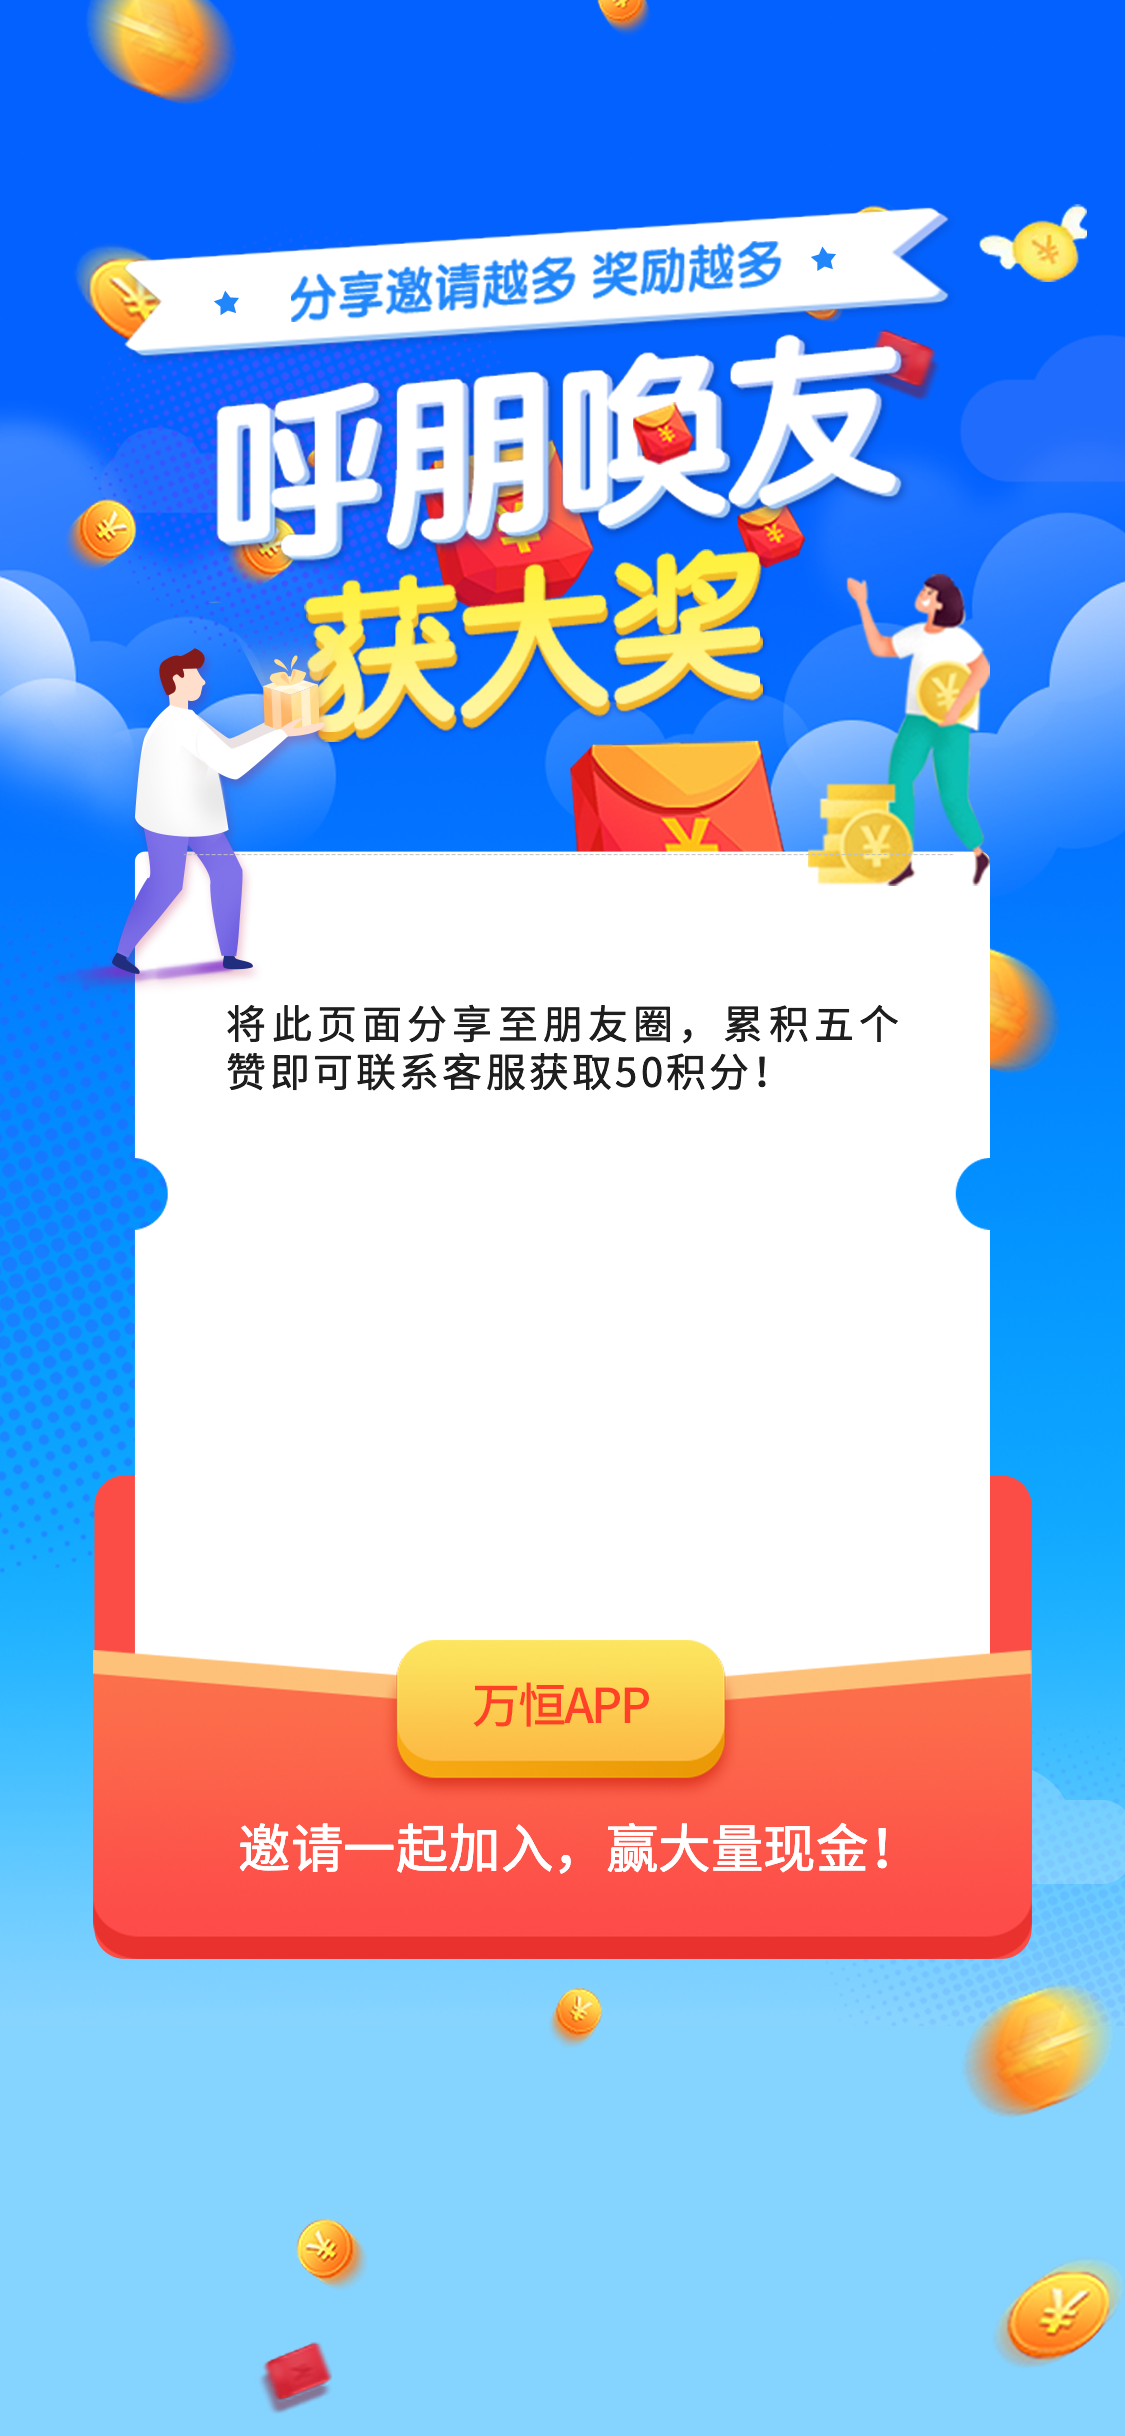
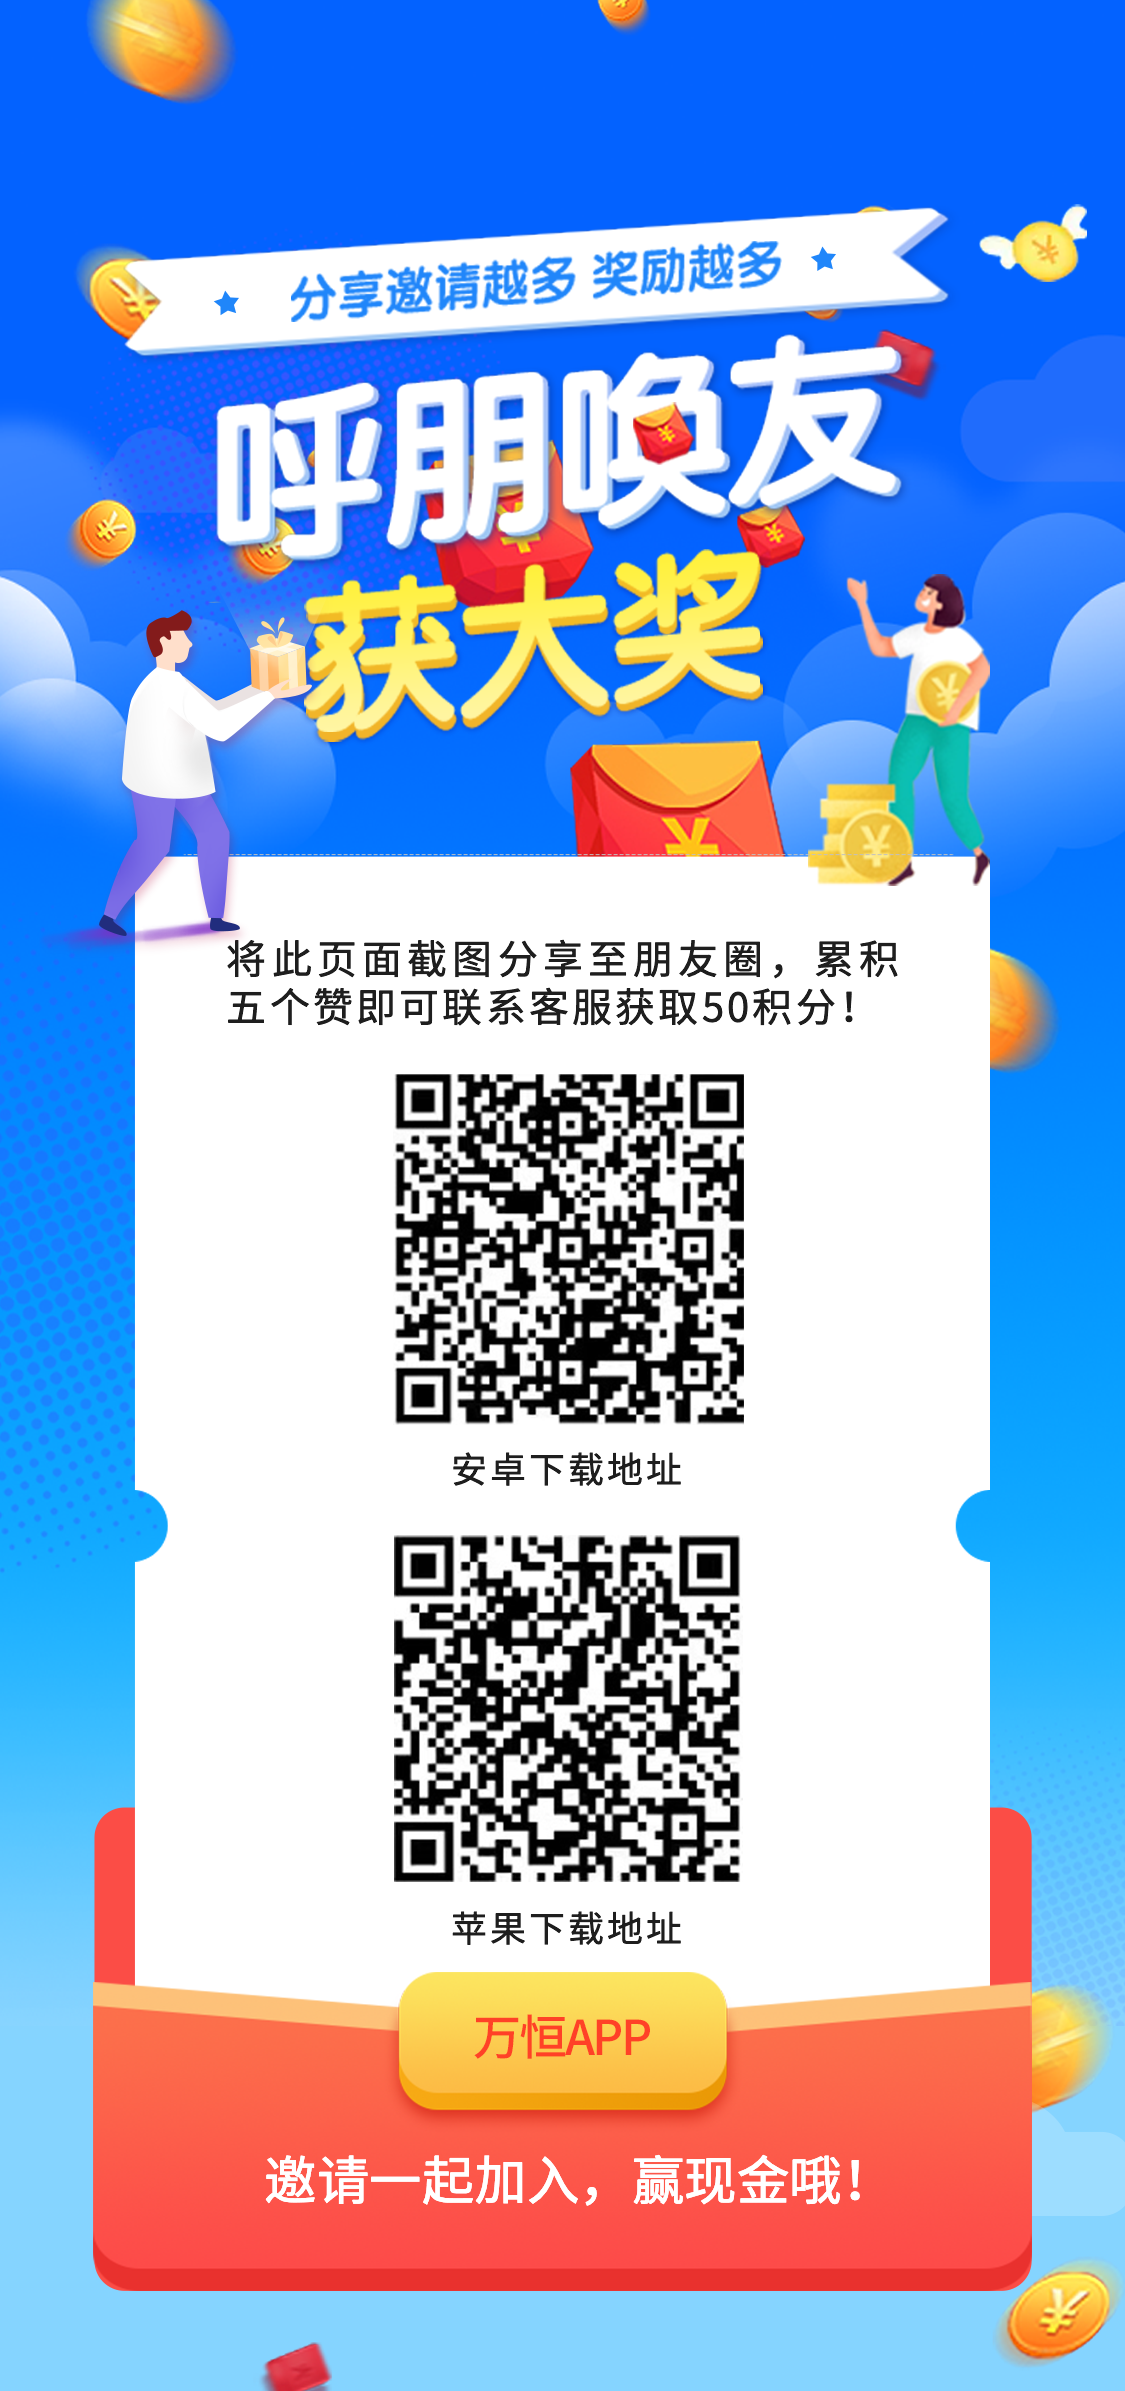
修改bug

diff --git a/src/views/user/share.vue b/src/views/user/share.vue
@@ -47,7 +47,7 @@
 
     <div class="qrcode_box" v-if="is_show_share">
       <div class="content">
-        <!-- <img :src="data.share_image_url" class="qrcode" /> -->
+        <img src="@/assets/wanheng/邀请有礼_slices/image_2022-01-05_13-15-50.png" class="qrcode" />
         <!-- <p class="qrcode_tips">扫描二维码，邀请好友加入</p> -->
         <!-- <div class="qrcode_btn" @click="close">立即邀请</div> -->
         <div class="close" alt="" @click="is_show_share = false"></div>
@@ -279,9 +279,9 @@ export default {
     flex-direction: column;
     align-items: center;
     .qrcode {
-      width: 120px;
-      height: 120px;
-      margin: 40px 10px 0 0;
+      width: 95px;
+      height: 95px;
+      margin: 18px 0 0 6px;
     }
     .qrcode_tips {
       font-size: 15px;
@@ -303,7 +303,7 @@ export default {
     .close {
       width: 24px;
       height: 24px;
-      margin-top: 320px;
+      margin-top: 205px;
     }
   }
 }
